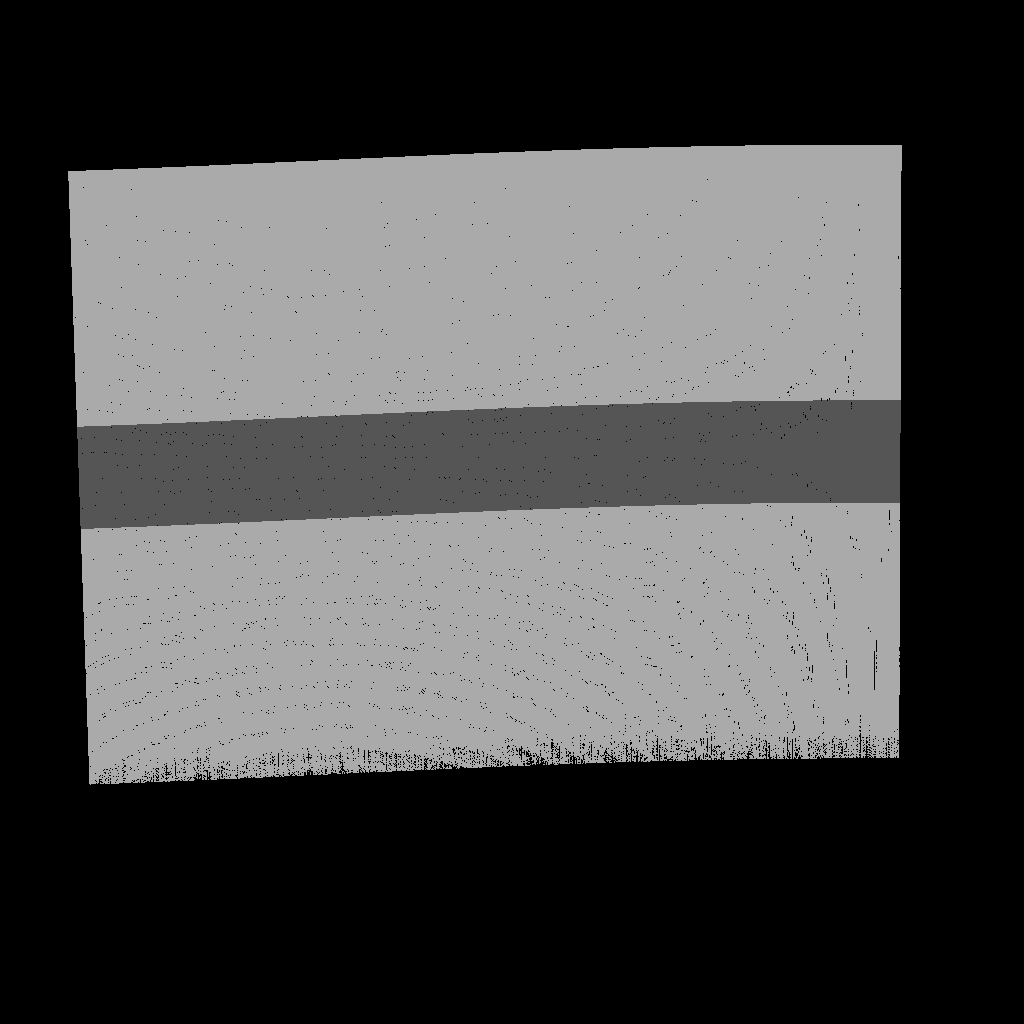
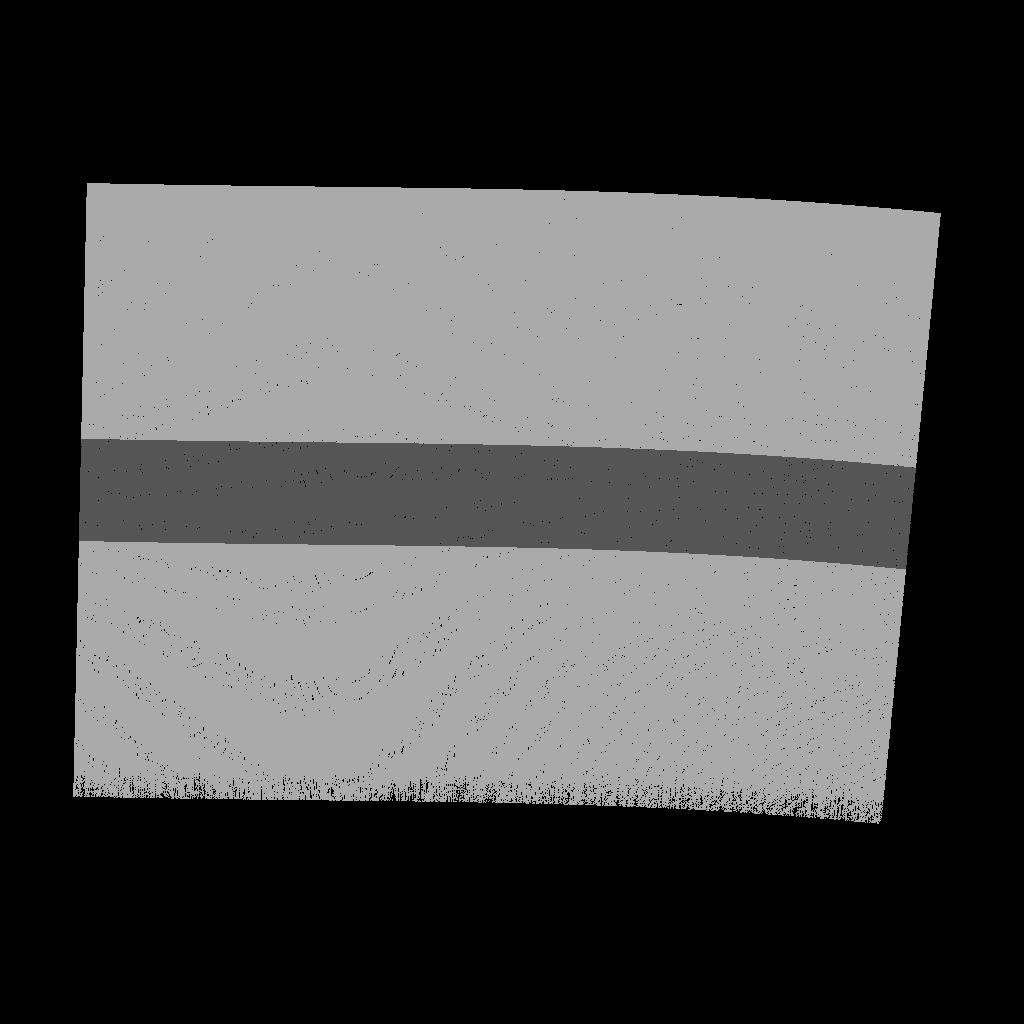
Residual/Restriction pass
Residual pass에 다운샘플링 과정 추가

해상도를 1/2로 낮추고(gldispatch도 마찬가지) global invocation이 fine 해상도의 4개 샘플을 대표하도록 함
residual = 평균, mask = or

디버깅을 위해 fine 해상도의 residual텍스처를 남겨두었음

Todo
1. Coarse pass 만들기
2. residual 계산이 간략화되어있음, PDE 오차값을 정확히 계산해야함
3. coarsewrite에 residual을 넣었는데,
residual을 coarse 해상도의 고정된 값으로 따로 가지고 가야함. coarseread/write는 반복으로 업데이트되는 값임
4. 레벨/반복을 일반화하는 diffusion 루프 만들기
5. Residual/Coarse texture의 초기값을 clear(0)하는 것이 좋아보임

레벨이 늘어날 때마다 AddTextureSet함수로 텍스처 세트를 만들어줘야 하고, 잘못된 레벨의 텍스를 업로드/바인드/할당/생성하거나 PingPongTexture의 Read/Write를 반대로 바인드하지 않도록 조심해야함

Changed region(s): [[0.0625, 0.125, 0.9375, 0.8125], [0.875, 0.6562, 0.9062, 0.6875]]

diff --git a/BufferManager.cpp b/BufferManager.cpp
@@ -285,25 +285,28 @@ void BufferManager::BindGradientReadOnly(const int Index) {
 	glBindImageTexture(2, Textures[Index].Gradient.GetReadTexture(), 0, GL_FALSE, 0, GL_READ_ONLY, GL_RGBA32F);
 }
 
-void BufferManager::UploadRasidualTexture(const int ResU, const int ResV, const int Index) {
-	if (Textures[Index].Residual) glDeleteTextures(1, &Textures[Index].Residual);
-	glGenTextures(1, &Textures[Index].Residual);
-	glBindTexture(GL_TEXTURE_2D, Textures[Index].Residual);
-	glTexParameteri(GL_TEXTURE_2D, GL_TEXTURE_MIN_FILTER, GL_NEAREST);
-	glTexParameteri(GL_TEXTURE_2D, GL_TEXTURE_MAG_FILTER, GL_NEAREST);
-	glTexParameteri(GL_TEXTURE_2D, GL_TEXTURE_WRAP_S, GL_CLAMP_TO_EDGE);
-	glTexParameteri(GL_TEXTURE_2D, GL_TEXTURE_WRAP_T, GL_CLAMP_TO_EDGE);
-	glTexImage2D(GL_TEXTURE_2D, 0, GL_R32F, ResU, ResV, 0, GL_RED, GL_FLOAT, nullptr);
+void BufferManager::AllocateRasidualTexture(const int ResU, const int ResV, const int Index) {
+
+	AllocateTexture2D(Textures[Index].Residual, ResU, ResV, GL_RGBA32F, GL_RGBA, GL_FLOAT);
 }
 
 void BufferManager::BindResidualTextureRead(const int Index) {
 
-	glBindImageTexture(4, Textures[Index].Residual, 0, GL_FALSE, 0, GL_READ_ONLY, GL_R32F);
+	glBindImageTexture(4, Textures[Index].Residual, 0, GL_FALSE, 0, GL_READ_ONLY, GL_RGBA32F);
 
 }
 
 void BufferManager::BindResidualTextureWrite(const int Index) {
-	glBindImageTexture(3, Textures[Index].Residual, 0, GL_FALSE, 0, GL_WRITE_ONLY, GL_R32F);
+	glBindImageTexture(2, Textures[Index].Residual, 0, GL_FALSE, 0, GL_WRITE_ONLY, GL_RGBA32F);
+}
+
+void BufferManager::AllocateCoarseTextures(const int ResU, const int ResV, const int Index) {
+	AllocateTexture2D(Textures[Index].Elevation.GetReadTexture(), ResU, ResV, GL_RGBA32F, GL_RGBA, GL_FLOAT);
+	AllocateTexture2D(Textures[Index].Elevation.GetWriteTexture(), ResU, ResV, GL_RGBA32F, GL_RGBA, GL_FLOAT);
+}
+
+void BufferManager::BindCoarseTextureWriteInResidualPass(const int Index) {
+	glBindImageTexture(3, Textures[Index].Elevation.GetReadTexture(), 0, GL_FALSE, 0, GL_WRITE_ONLY, GL_RGBA32F);
 }
 
 void BufferManager::BindDbgTexture(const int Index) {

diff --git a/main.cpp b/main.cpp
@@ -17,8 +17,8 @@ static uniform_real_distribution<> distribution(0, 2.0 * PI);
 DebugMode CurrentDebugMode = DebugMode::None;
 float DebugOverlayAlpha = 0.0f;
 
-int HeightMapU = 1024;
-int HeightMapV = 1024;
+int HeightMapU = 256;
+int HeightMapV = 256;
 
 bool MoveCameraForward = false;
 bool MoveCameraBackward = false;
@@ -1108,16 +1108,13 @@ void DrawPanel() {
 
 			Maps ConstraintMap = RasterizerMgr.GetMaps();
 
-			ExportGradientImage("RasterizedGradientRGB.png", ConstraintMap.Gradients, true);
-			ExportHeightmapImage("RasterizedElevationGray.png", ConstraintMap.ElevationMap);
-			ExportConstraintMaskImage("RasterizedConstraintMask.png", ConstraintMap.ConstraintMaskMap);
-
+			BufferMgr.AddTextureSet();
 			BufferMgr.AddTextureSet();
 
 			BufferMgr.UploadElevationTexture(HeightMapU, HeightMapV, 
 				ConstraintMap.ElevationMap.data(), ConstraintMap.NoiseMap, ConstraintMap.ConstraintMaskMap.data(), 0);
 			BufferMgr.UploadGradientTexture(HeightMapU, HeightMapV, ConstraintMap.Gradients, 0);
-			BufferMgr.UploadRasidualTexture(HeightMapU, HeightMapV, 0);
+
 
 			BufferMgr.CreateSSBO(0);
 
@@ -1151,10 +1148,16 @@ void DrawPanel() {
 
 			}
 
+
+			// 레벨 0의 residual 할당, 바인드 -> 레벨 1의 coarse 할당 -> 레벨 1의 coarse를 레벨 0에 write로 바인드
+			BufferMgr.AllocateRasidualTexture(HeightMapU, HeightMapV, 0);
+			BufferMgr.AllocateCoarseTextures(HeightMapU / 2, HeightMapV / 2, 1);
+
 			BufferMgr.BindElevationTextureResidual(0);
+			BufferMgr.BindCoarseTextureWriteInResidualPass(1);
 			BufferMgr.BindResidualTextureWrite(0);
 			ShaderMgr.FindComputeProgram(ComputeType::Residual).Use();
-			glDispatchCompute((HeightMapU + 15) / 16, (HeightMapV + 15) / 16, 1);
+			glDispatchCompute((HeightMapU / 2 + 15) / 16, (HeightMapV / 2 + 15) / 16, 1);
 			glMemoryBarrier(GL_SHADER_IMAGE_ACCESS_BARRIER_BIT | GL_TEXTURE_FETCH_BARRIER_BIT);
 
 

diff --git a/BufferManager.h b/BufferManager.h
@@ -33,8 +33,8 @@ struct PingPongTexture {
 	GLuint Texture[2] = { 0,0 };
 	int ping = 0;
 
-	GLuint GetReadTexture() const { return Texture[ping]; }
-	GLuint GetWriteTexture() const { return Texture[1 - ping]; }
+	GLuint& GetReadTexture() { return Texture[ping]; }
+	GLuint& GetWriteTexture() { return Texture[1 - ping]; }
 	void Swap() { ping = 1 - ping; }
 };
 
@@ -113,9 +113,13 @@ public:
 
 	
 
-	void UploadRasidualTexture(const int ResU, const int ResV, const int Index);
+	void AllocateRasidualTexture(const int ResU, const int ResV, const int Index);
 	void BindResidualTextureRead(const int Index);
 	void BindResidualTextureWrite(const int Index);
+
+	void AllocateCoarseTextures(const int ResU, const int ResV, const int Index);
+	void BindCoarseTextureWriteInResidualPass(const int Index);
+
 
 	void UploadDbgTexture(int ResU, int ResV, const int Index);
 	void BindDbgTexture(const int Index);
